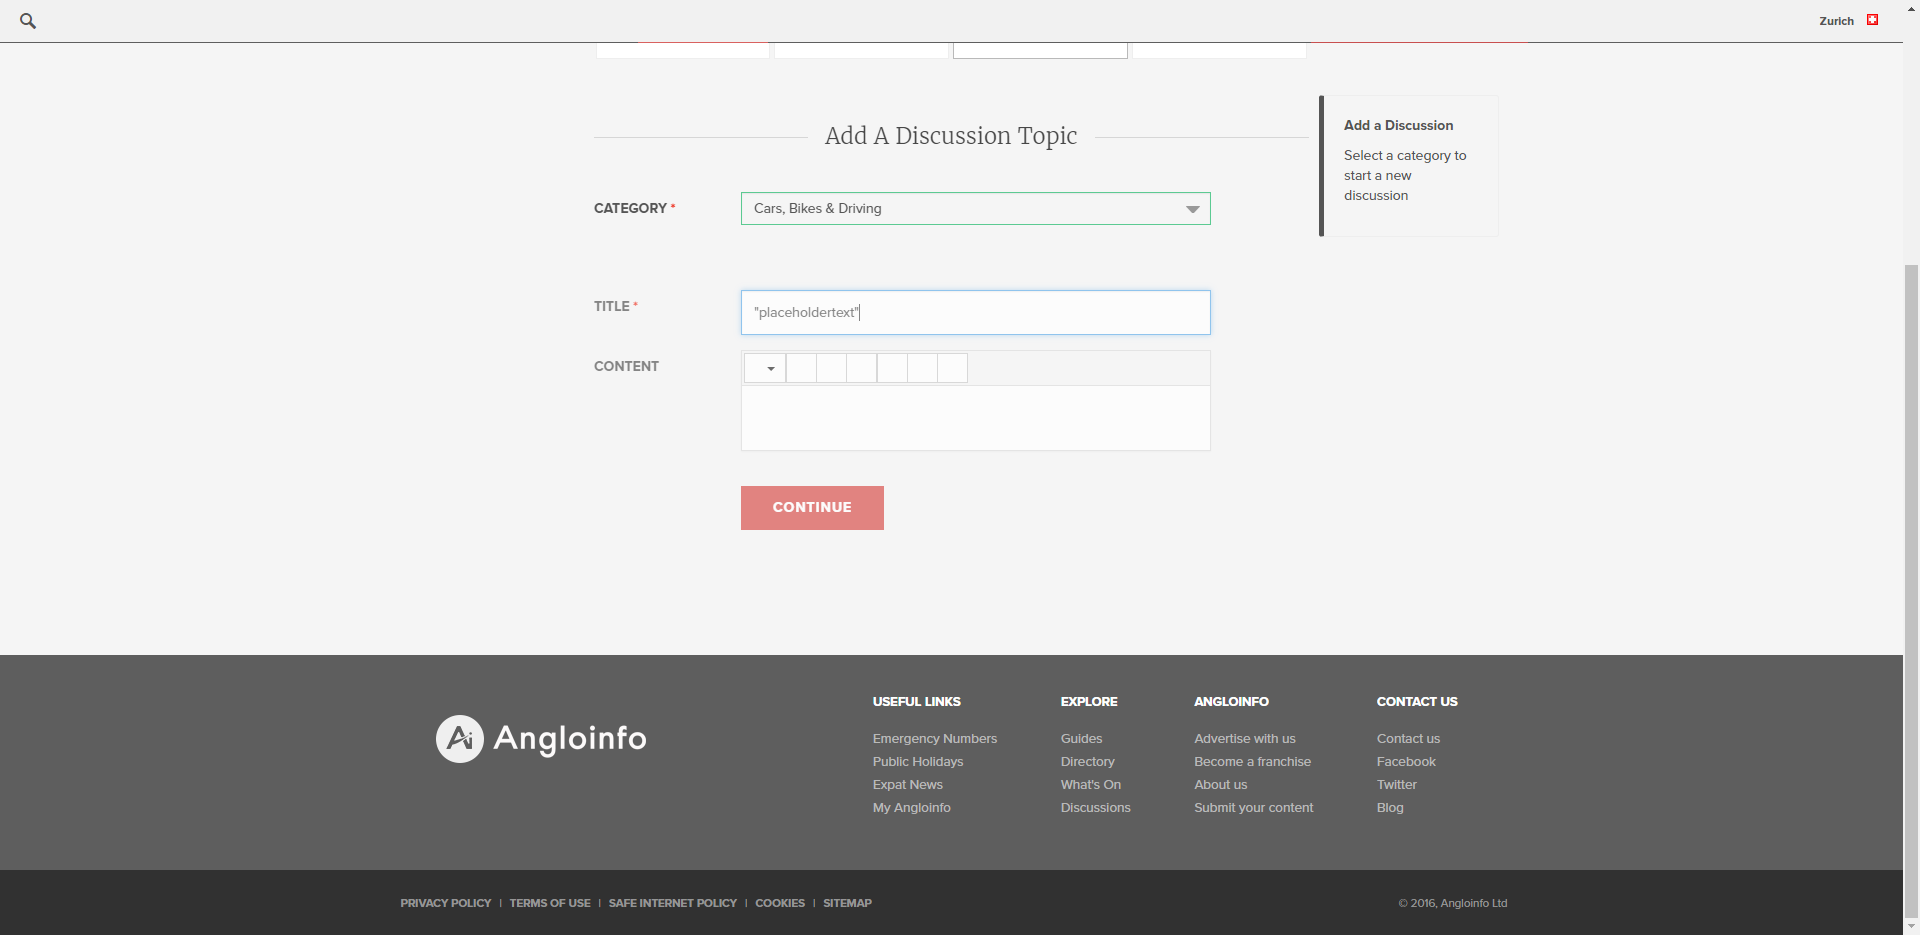
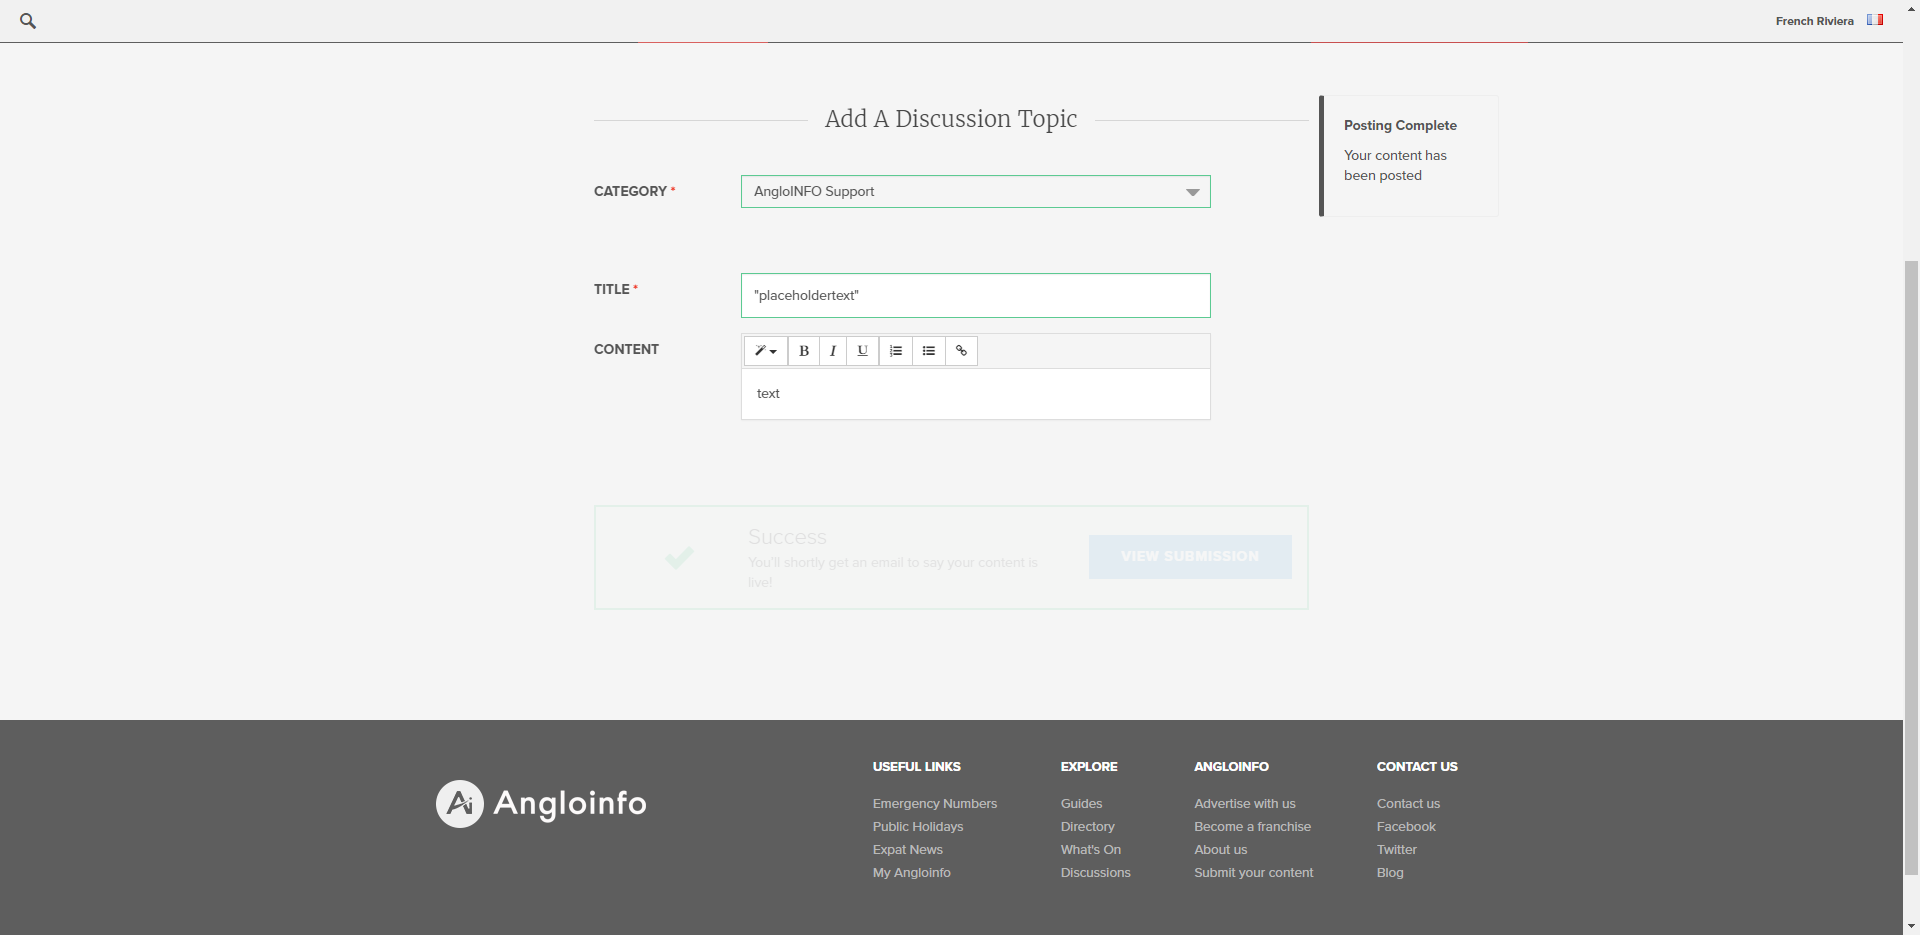
improved posting discussion script

diff --git a/elementlocations.py b/elementlocations.py
@@ -4,8 +4,8 @@ display_name_location = '//*[@id="profile-img-container"]/h1/span[1]'
 
 #resetpage
 send_reset_link_xpath 					= '//*[@id="reset-form"]/form/button'
-reset_link_sent_confirmation_box_xpath  = '//*[@id="reset"]/div/div[1]/p'
 
+reset_link_sent_confirmation_box_xpath  = '//*[@id="reset"]/div/div[1]/p'
 
 #contentsubmission
 
@@ -24,4 +24,6 @@ discussion_text_editor = '#stateForumTopic > form > div:nth-child(2) > div > div
 summernote__input_element = '//*[@id="stateForumTopic"]/form/div[2]/div/div[1]/div[3]/div[2]/p'
 
 discussion_topic_editor    = '//*[@id="stateForumTopic"]/form/div[2]'
+
+success_text ='#stateSuccess > table > tbody > tr > td:nth-child(2) > span'
 

diff --git a/stgconfigs.py b/stgconfigs.py
@@ -3,7 +3,7 @@ baseurl = 'https://stg.angloinfo.com'
 DICT__validuser = {
 	    'username': 'ainfo1001+stg101@gmail.com', 
 	    'password': 'Anglo123' , 
-	    'default_loc': 'zurich',
+	    'default_loc': 'riviera',
 	    'displayname': 'staging test account'
 }
 
